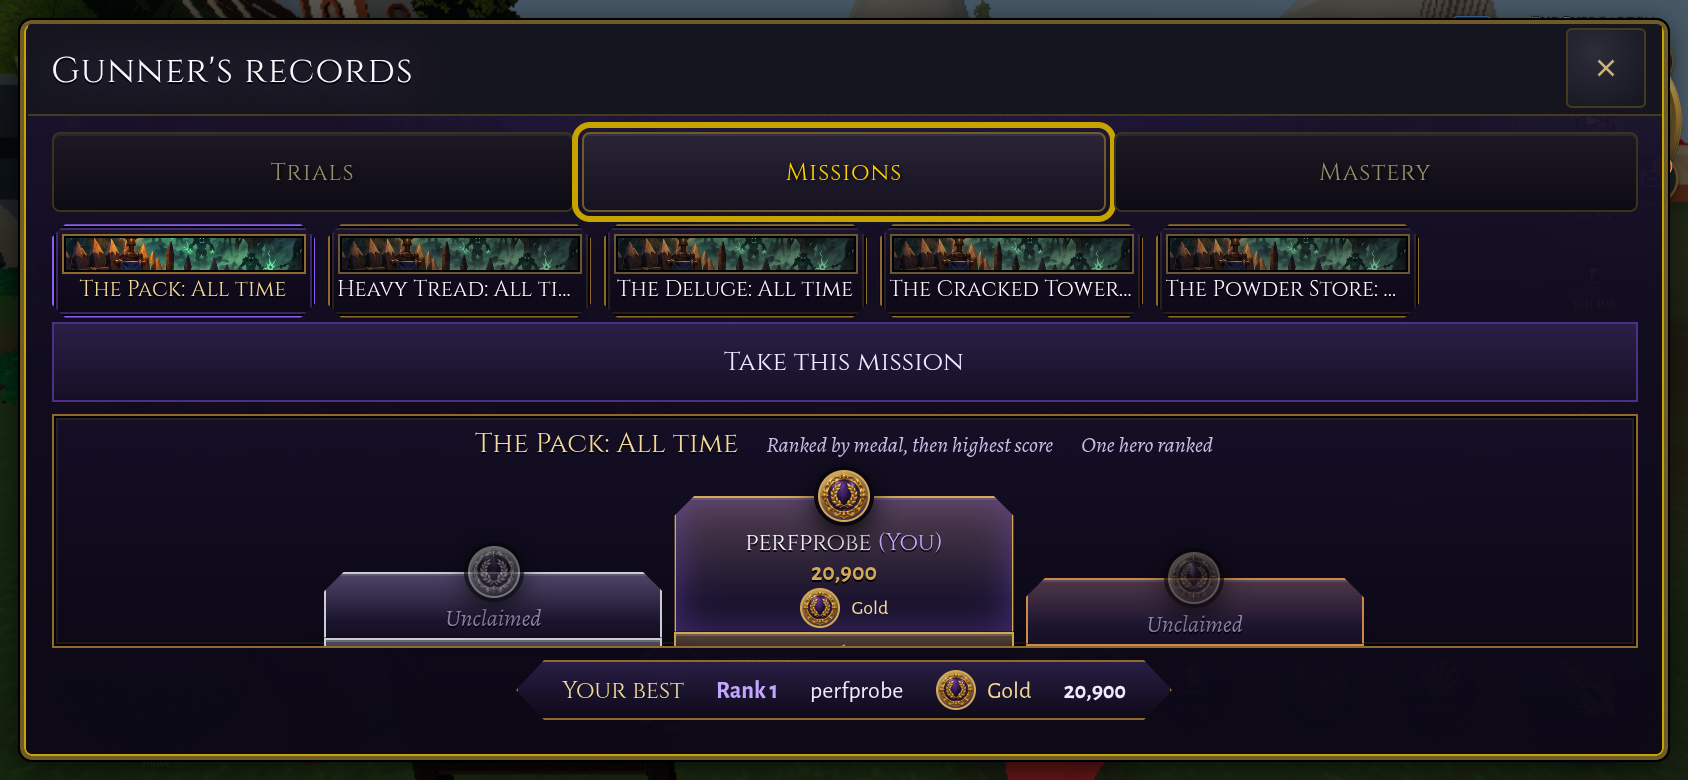
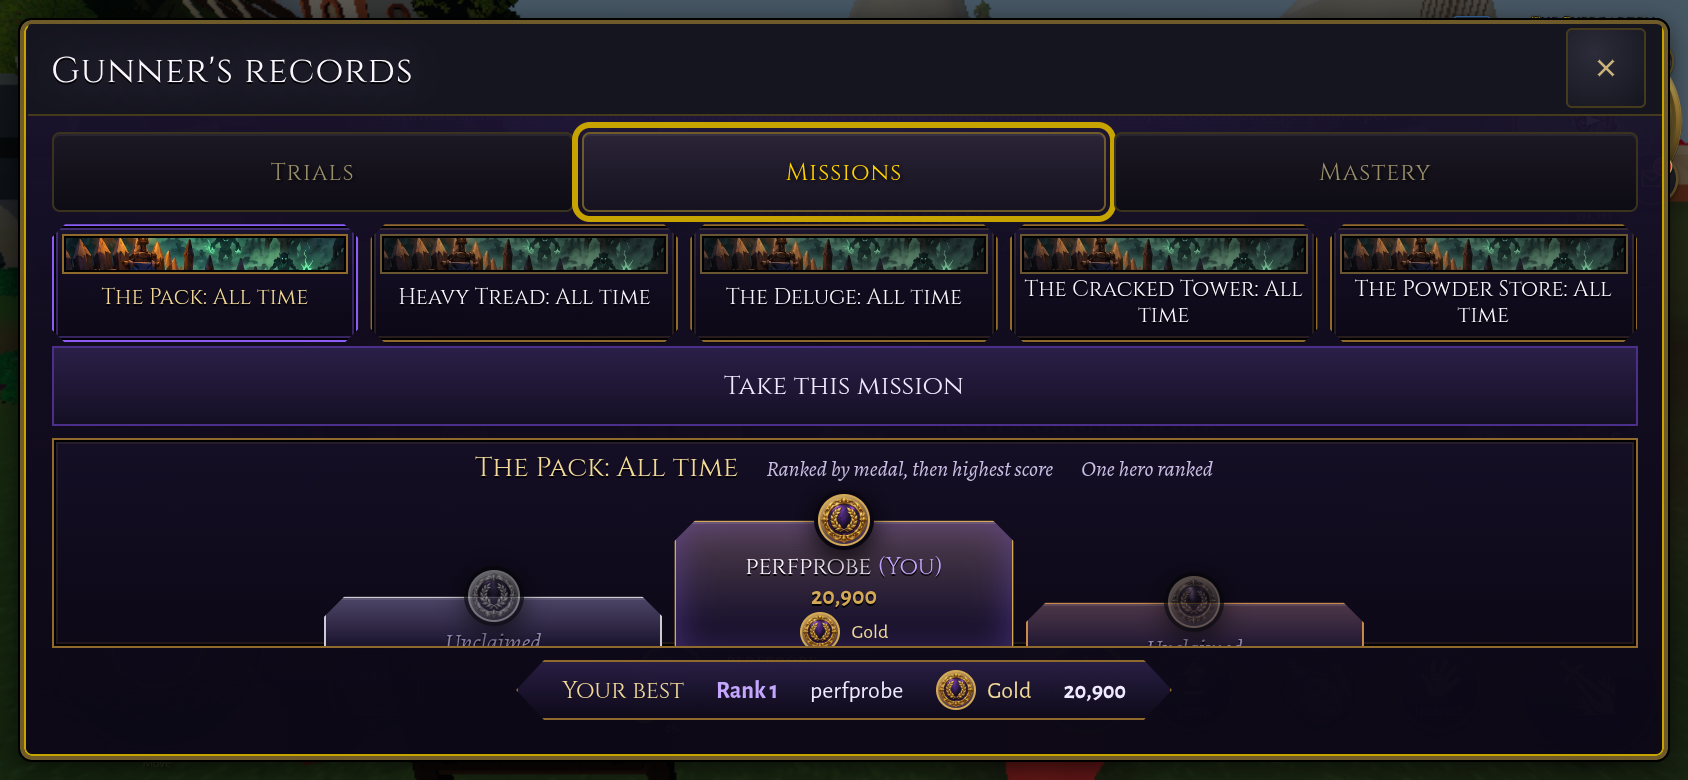
fix(fire-and-fly): show whole board names on the phone rankings cards
On a phone the rankings cards kept a fixed width and cut their names
short ("Heavy Tread: All ti..."). The cards now share the strip's width
before it scrolls and a name wraps to a second line instead of being
truncated; the mobile screenshot is retaken.

Changed region(s): [[0.0308, 0.2769, 0.9858, 0.8308]]

diff --git a/src/styles/hud.mobile.css b/src/styles/hud.mobile.css
@@ -8651,8 +8651,11 @@
     overscroll-behavior-x: contain;
     padding-bottom: 2px;
   }
+  /* The cards share the strip's width before it scrolls, and a name wraps to a second
+     line rather than truncating. */
   body.mobile-touch #world-quest-leaderboard-window .wql-card {
-    flex: 0 0 132px;
+    flex: 1 1 0;
+    min-width: 104px;
     gap: 2px;
     padding: 4px;
   }
@@ -8663,8 +8666,11 @@
   body.mobile-touch #world-quest-leaderboard-window .wql-card-name {
     font-size: 11px;
     overflow: hidden;
-    text-overflow: ellipsis;
-    white-space: nowrap;
+    display: -webkit-box;
+    -webkit-box-orient: vertical;
+    -webkit-line-clamp: 2;
+    line-clamp: 2;
+    overflow-wrap: normal;
   }
   body.mobile-touch #world-quest-leaderboard-window .wql-card-metric {
     display: none;
